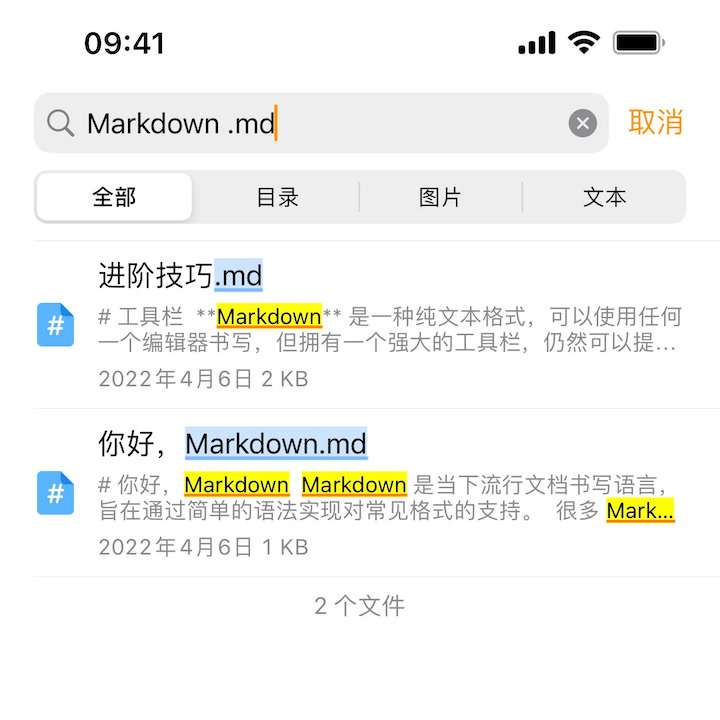
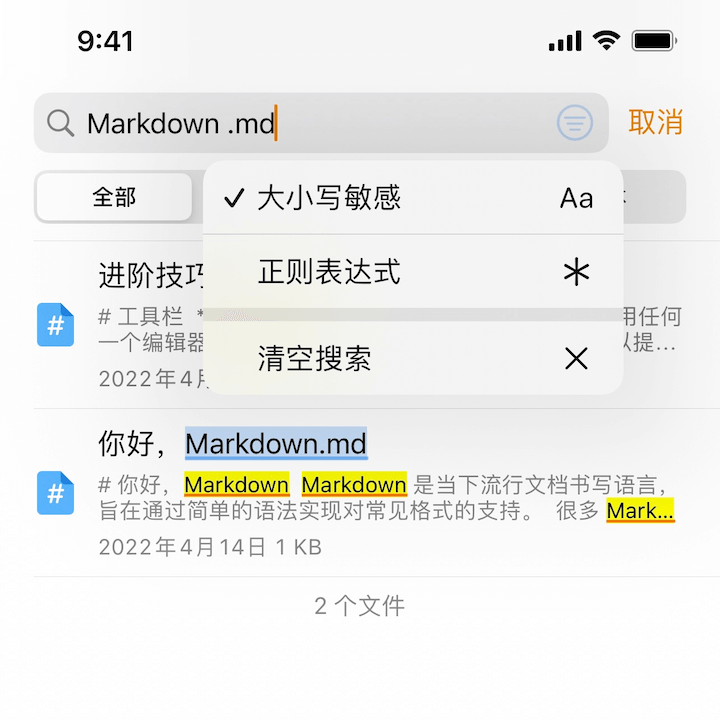
Search & Replace is now supported

diff --git a/docs/editor/search.md b/docs/editor/search.md
@@ -1,6 +1,6 @@
 ## Full Text Search
 
-In file explorer, you can search both file name and content, with support for fuzzy matching.
+In file explorer, you can search both file name and content, with support for fuzzy matching, case sensitive, and regular expressions.
 
 Search results are beautifully highlighted.
 
@@ -30,4 +30,8 @@ When you are doing a full text search, you can also continue the search in found
 
 <img class="bordered_img" src="../editor/assets/IMG_8.png" />
 
-> There's currently no support for "search and replace", but that's planned.
+## Search and Replace
+
+You can search and replace with advanced options, including case sensitive and regular expressions, preview results with diff view.
+
+<img class="bordered_img" src="../editor/assets/IMG_10.png" />

diff --git a/docs/cn/editor/search.md b/docs/cn/editor/search.md
@@ -1,6 +1,6 @@
 ## 全文搜索
 
-在文件浏览器中，您可以同时搜索文件名和内容，并支持模糊匹配。
+在文件浏览器中，您可以同时搜索文件名和内容，并支持模糊匹配、大小写敏感和正则表达式。
 
 搜索结果会被漂亮地高亮显示。
 
@@ -30,4 +30,8 @@
 
 <img class="bordered_img" src="../cn/editor/assets/IMG_8.png" />
 
-> 目前还不支持“查找替换”，但这是计划中的。
+## 查找和替换
+
+您可以用高级选项进行搜索和替换，包括区分大小写和正则表达式，用差异对比视图预览结果。
+
+<img class="bordered_img" src="../cn/editor/assets/IMG_10.png" />
